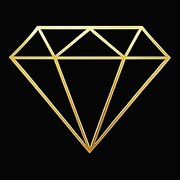
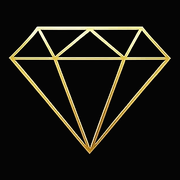
Logo3, mapa Google click-to-load, botões de navegação e afinações
- Logo atualizado (logo3) com fundo transparente + favicons + og-image
- Mapa Google Maps interativo em modo click-to-load (consentimento por
  clique, sem banner de cookies — políticas atualizadas: Google Ireland/
  LLC + DPF, retirada por recarregamento, exemplo de cookie NID)
- Botão de descer no hero + botão fixo 'voltar ao topo'
- Botão 'Pedir orçamento' da navbar leva aos Contactos
- Footer: contactos com ícones, redes sociais sob a descrição encurtada
- 'Higienização de sofás' + slider centrado em mobile; texto Sobre limpo
- Ver mais serviços em mobile; header transparente no topo

Changed region(s): [[0.0278, 0.1389, 0.9444, 0.8611]]

diff --git a/index.html b/index.html
@@ -26,7 +26,7 @@
   <link rel="icon" href="assets/img/favicon-32.png" sizes="32x32" type="image/png">
   <link rel="icon" href="assets/img/icon-192.png" sizes="192x192" type="image/png">
   <link rel="apple-touch-icon" href="assets/img/apple-touch-icon.png">
-  <link rel="stylesheet" href="assets/css/styles.css?v=5">
+  <link rel="stylesheet" href="assets/css/styles.css?v=8">
 
   <script type="application/ld+json">
   {
@@ -64,7 +64,7 @@
   <header class="site-header">
     <div class="container site-header__inner">
       <a class="brand" href="#inicio" aria-label="Gold Cleaning Services — início">
-        <img src="assets/img/logo-full.webp?v=4" alt="Gold Cleaning Services" width="921" height="519">
+        <img src="assets/img/logo-full.webp?v=6" alt="Gold Cleaning Services" width="921" height="522">
       </a>
       <button class="nav-toggle" aria-expanded="false" aria-controls="nav" aria-label="Abrir menu">
         <span class="nav-toggle__bars" aria-hidden="true"></span>
@@ -77,10 +77,7 @@
           <li><a href="#galeria">Galeria</a></li>
           <li><a href="#contactos">Contactos</a></li>
           <li>
-            <a class="btn btn--gold" href="https://wa.me/message/L3VXHYEIM6WUH1" target="_blank" rel="noopener noreferrer">
-              <svg width="18" height="18" viewBox="0 0 24 24" fill="currentColor" aria-hidden="true"><path d="M12 2a10 10 0 0 0-8.6 15.1L2 22l5-1.3A10 10 0 1 0 12 2Zm5.4 14.1c-.2.7-1.3 1.3-1.9 1.4-.5.1-1.1.1-1.8-.1-.4-.1-1-.3-1.7-.6-2.9-1.3-4.8-4.2-5-4.4-.1-.2-1.2-1.6-1.2-3s.7-2.1 1-2.4c.2-.3.5-.3.7-.3h.5c.2 0 .4 0 .6.4.2.5.7 1.8.8 1.9.1.1.1.3 0 .5-.1.2-.1.3-.3.5l-.4.5c-.1.1-.3.3-.1.6.2.3.8 1.3 1.7 2.1 1.2 1.1 2.2 1.4 2.5 1.5.3.1.5.1.7-.1.2-.2.8-.9 1-1.2.2-.3.4-.3.7-.2.3.1 1.8.8 2.1 1 .3.2.5.3.6.4.1.2.1.7-.1 1.5Z"/></svg>
-              Pedir orçamento
-            </a>
+            <a class="btn btn--gold" href="#contactos">Pedir orçamento</a>
           </li>
         </ul>
       </nav>
@@ -104,6 +101,9 @@
           </div>
         </div>
       </div>
+      <a class="hero__scroll" href="#servicos" aria-label="Descer para a secção de serviços">
+        <svg width="22" height="22" viewBox="0 0 24 24" fill="none" stroke="currentColor" stroke-width="2" stroke-linecap="round" stroke-linejoin="round" aria-hidden="true"><path d="m6 9 6 6 6-6"/></svg>
+      </a>
     </section>
 
     <!-- ============ SERVIÇOS ============ -->
@@ -179,7 +179,7 @@
         </div>
         <div class="ba-wrap">
           <div class="ba-block">
-            <h3>Higienização de sofá</h3>
+            <h3>Higienização de sofás</h3>
             <div class="ba-slider">
               <img src="assets/img/sofas-antes.webp" alt="Sofá em tecido claro com manchas e sujidade, antes da higienização" width="900" height="1200" loading="lazy" decoding="async">
               <img class="ba-slider__after" src="assets/img/sofas-depois.webp" alt="O mesmo sofá completamente limpo, depois da higienização profissional" width="900" height="1200" loading="lazy" decoding="async">
@@ -218,7 +218,7 @@
           <p class="kicker">Sobre nós</p>
           <h2 id="sobre-titulo">Limpeza profunda, cuidado delicado</h2>
           <p>A Gold Cleaning Services é uma empresa de Rio Meão, Santa Maria da Feira, especializada em serviços de limpeza profissional para <strong>empresas e particulares</strong>.</p>
-          <p>Investimos em equipamento profissional e inovador — plataformas elevatórias, pértigas de água purificada, máquinas de injeção-extração e lavadoras de alta pressão — para entregar, em cada trabalho, um resultado ao nível do nosso nome.</p>
+          <p>Investimos em equipamento profissional e inovador para entregar, em cada trabalho, um resultado ao nível do nosso nome.</p>
           <ul class="checklist">
             <li>
               <svg width="22" height="22" viewBox="0 0 24 24" fill="none" stroke="currentColor" stroke-width="2" stroke-linecap="round" stroke-linejoin="round" aria-hidden="true"><path d="M20 6 9 17l-5-5"/></svg>
@@ -290,6 +290,10 @@
           <div class="map-card__media">
             <img src="assets/img/mapa-rio-meao.webp" alt="Mapa da zona de Rio Meão com a localização da Gold Cleaning assinalada na Rua Nova" width="1280" height="640" loading="lazy">
             <span class="map-attrib">© <a href="https://www.openstreetmap.org/copyright" target="_blank" rel="noopener noreferrer">OpenStreetMap</a> contributors</span>
+            <div class="map-consent">
+              <button type="button" class="btn btn--gold map-load">Ver mapa interativo</button>
+              <p class="map-consent__note">Ao carregar o mapa aceita os cookies da Google · <a href="cookies.html">saber mais</a></p>
+            </div>
           </div>
           <div class="map-card__bar">
             <address><strong>Rua Nova, 39, Monte Outeiro</strong> · 4520-462 Rio Meão · Santa Maria da Feira</address>
@@ -314,8 +318,8 @@
     <div class="container">
       <div class="site-footer__top">
         <div class="site-footer__brand">
-          <img class="logo-foot" src="assets/img/logo-full.webp?v=4" alt="Gold Cleaning Services" width="921" height="519">
-          <p>Limpeza profunda, cuidado delicado. Serviços de limpeza profissional para empresas e particulares — final de obra, fachadas, telhados, vidros, painéis solares, estofos e muito mais.</p>
+          <img class="logo-foot" src="assets/img/logo-full.webp?v=6" alt="Gold Cleaning Services" width="921" height="522">
+          <p>Limpeza profunda, cuidado delicado. Serviços de limpeza profissional para empresas e particulares.</p>
           <div class="socials">
             <a href="https://www.instagram.com/gold_cleaning.services/" target="_blank" rel="noopener noreferrer" aria-label="Instagram da Gold Cleaning">
               <svg width="22" height="22" viewBox="0 0 24 24" fill="none" stroke="currentColor" stroke-width="1.8" stroke-linecap="round" stroke-linejoin="round" aria-hidden="true"><rect x="2.5" y="2.5" width="19" height="19" rx="5"/><circle cx="12" cy="12" r="4.2"/><circle cx="17.6" cy="6.4" r="1.1" fill="currentColor" stroke="none"/></svg>
@@ -358,6 +362,6 @@
     </div>
   </footer>
 
-  <script src="assets/js/main.js?v=4" defer></script>
+  <script src="assets/js/main.js?v=6" defer></script>
 </body>
 </html>

diff --git a/cookies.html b/cookies.html
@@ -14,7 +14,7 @@
   <link rel="icon" href="assets/img/favicon-32.png" sizes="32x32" type="image/png">
   <link rel="icon" href="assets/img/icon-192.png" sizes="192x192" type="image/png">
   <link rel="apple-touch-icon" href="assets/img/apple-touch-icon.png">
-  <link rel="stylesheet" href="assets/css/styles.css?v=5">
+  <link rel="stylesheet" href="assets/css/styles.css?v=8">
 </head>
 <body>
   <a class="skip-link" href="#conteudo">Saltar para o conteúdo</a>
@@ -22,7 +22,7 @@
   <header class="site-header">
     <div class="container site-header__inner">
       <a class="brand" href="index.html" aria-label="Gold Cleaning Services — início">
-        <img src="assets/img/logo-full.webp?v=4" alt="Gold Cleaning Services" width="921" height="519">
+        <img src="assets/img/logo-full.webp?v=6" alt="Gold Cleaning Services" width="921" height="522">
       </a>
       <button class="nav-toggle" aria-expanded="false" aria-controls="nav" aria-label="Abrir menu">
         <span class="nav-toggle__bars" aria-hidden="true"></span>
@@ -48,8 +48,9 @@
       <p>O website da Gold Cleaning Services <strong>não utiliza cookies nem outras tecnologias de rastreio</strong> — nem próprios, nem de terceiros. Não usamos ferramentas de análise de tráfego (analytics), publicidade ou personalização, e nenhum conteúdo de terceiros (como mapas ou vídeos incorporados) é carregado automaticamente nas nossas páginas.</p>
       <p>Por esse motivo, não lhe é apresentado qualquer pedido de consentimento para cookies, nos termos do artigo 5.º da Lei n.º 41/2004, de 18 de agosto: não há nada para consentir.</p>
 
-      <h2>2. Ligações para serviços externos</h2>
-      <p>O website contém ligações para serviços de terceiros — por exemplo, Google Maps (para ver a nossa localização), WhatsApp, Instagram e Facebook. Estes serviços só são abertos se clicar nas respetivas ligações e, a partir desse momento, podem utilizar cookies de acordo com as suas próprias políticas, que lhe recomendamos que consulte:</p>
+      <h2>2. Ligações e conteúdos de serviços externos</h2>
+      <p>O website contém ligações para serviços de terceiros — WhatsApp, Instagram, Facebook e Google Maps. Estes serviços só são abertos se clicar nas respetivas ligações e, a partir desse momento, podem utilizar cookies de acordo com as suas próprias políticas.</p>
+      <p>Na secção de contactos existe um <strong>mapa interativo do Google Maps</strong>. Este mapa <strong>não é carregado automaticamente</strong>: até clicar no botão «Ver mapa interativo», é apresentada apenas uma imagem estática alojada neste website (sem qualquer pedido a terceiros). Se clicar nesse botão, o mapa da Google é carregado e a Google pode instalar cookies (por exemplo, o cookie «NID») e tratar dados (como o seu endereço IP) de acordo com as suas políticas. O clique vale como consentimento para esse carregamento. A escolha não fica guardada: para retirar o consentimento basta recarregar ou sair da página. Políticas relevantes:</p>
       <ul>
         <li><a href="https://policies.google.com/technologies/cookies" target="_blank" rel="noopener noreferrer">Política de cookies da Google</a></li>
         <li><a href="https://www.whatsapp.com/legal/cookies" target="_blank" rel="noopener noreferrer">Política de cookies do WhatsApp</a></li>
@@ -57,7 +58,7 @@
       </ul>
 
       <h2>3. Se esta política mudar</h2>
-      <p>Se algum dia este website passar a utilizar cookies (por exemplo, ao incorporar um mapa interativo ou ferramentas de estatísticas), esta política será atualizada e ser-lhe-á pedido consentimento prévio, livre e informado, nos termos da lei, antes de qualquer cookie não estritamente necessário ser instalado.</p>
+      <p>Se algum dia este website passar a utilizar cookies próprios ou a carregar automaticamente conteúdos de terceiros (por exemplo, ferramentas de estatísticas), esta política será atualizada e ser-lhe-á pedido consentimento prévio, livre e informado, nos termos da lei, antes de qualquer cookie não estritamente necessário ser instalado.</p>
 
       <h2>4. Contacto</h2>
       <p>Para qualquer questão sobre esta política: <a href="mailto:rdgoldcleaning@gmail.com">rdgoldcleaning@gmail.com</a>. Consulte também a nossa <a href="privacidade.html">Política de Privacidade</a>.</p>
@@ -68,8 +69,8 @@
     <div class="container">
       <div class="site-footer__top">
         <div class="site-footer__brand">
-          <img class="logo-foot" src="assets/img/logo-full.webp?v=4" alt="Gold Cleaning Services" width="921" height="519">
-          <p>Limpeza profunda, cuidado delicado. Serviços de limpeza profissional para empresas e particulares — final de obra, fachadas, telhados, vidros, painéis solares, estofos e muito mais.</p>
+          <img class="logo-foot" src="assets/img/logo-full.webp?v=6" alt="Gold Cleaning Services" width="921" height="522">
+          <p>Limpeza profunda, cuidado delicado. Serviços de limpeza profissional para empresas e particulares.</p>
           <div class="socials">
             <a href="https://www.instagram.com/gold_cleaning.services/" target="_blank" rel="noopener noreferrer" aria-label="Instagram da Gold Cleaning">
               <svg width="22" height="22" viewBox="0 0 24 24" fill="none" stroke="currentColor" stroke-width="1.8" stroke-linecap="round" stroke-linejoin="round" aria-hidden="true"><rect x="2.5" y="2.5" width="19" height="19" rx="5"/><circle cx="12" cy="12" r="4.2"/><circle cx="17.6" cy="6.4" r="1.1" fill="currentColor" stroke="none"/></svg>
@@ -112,6 +113,6 @@
     </div>
   </footer>
 
-  <script src="assets/js/main.js?v=4" defer></script>
+  <script src="assets/js/main.js?v=6" defer></script>
 </body>
 </html>

diff --git a/privacidade.html b/privacidade.html
@@ -14,7 +14,7 @@
   <link rel="icon" href="assets/img/favicon-32.png" sizes="32x32" type="image/png">
   <link rel="icon" href="assets/img/icon-192.png" sizes="192x192" type="image/png">
   <link rel="apple-touch-icon" href="assets/img/apple-touch-icon.png">
-  <link rel="stylesheet" href="assets/css/styles.css?v=5">
+  <link rel="stylesheet" href="assets/css/styles.css?v=8">
 </head>
 <body>
   <a class="skip-link" href="#conteudo">Saltar para o conteúdo</a>
@@ -22,7 +22,7 @@
   <header class="site-header">
     <div class="container site-header__inner">
       <a class="brand" href="index.html" aria-label="Gold Cleaning Services — início">
-        <img src="assets/img/logo-full.webp?v=4" alt="Gold Cleaning Services" width="921" height="519">
+        <img src="assets/img/logo-full.webp?v=6" alt="Gold Cleaning Services" width="921" height="522">
       </a>
       <button class="nav-toggle" aria-expanded="false" aria-controls="nav" aria-label="Abrir menu">
         <span class="nav-toggle__bars" aria-hidden="true"></span>
@@ -56,8 +56,9 @@
       <h3>2.2. Contactos que nos dirija</h3>
       <p>Se nos contactar por telefone, email ou WhatsApp, trataremos os dados que nos fornecer (nome, contacto e conteúdo da mensagem) exclusivamente para responder ao seu pedido e preparar o orçamento solicitado — fundamento: diligências pré-contratuais e execução de contrato (artigo 6.º, n.º 1, alínea b) do RGPD) ou consentimento (alínea a)). Conservamos estes dados apenas pelo tempo necessário à resposta e, existindo relação contratual, pelos prazos legais aplicáveis (nomeadamente fiscais).</p>
 
-      <h2>3. Ligações para serviços de terceiros</h2>
+      <h2>3. Ligações e conteúdos de serviços de terceiros</h2>
       <p>Este website contém ligações para serviços externos — Google Maps, WhatsApp, Instagram e Facebook. Estas ligações abrem os respetivos serviços apenas quando clica nelas; a partir desse momento, aplicam-se as políticas de privacidade desses serviços. Nenhum conteúdo de terceiros é carregado automaticamente neste website.</p>
+      <p>O mapa interativo do Google Maps na secção de contactos só é carregado depois de clicar em «Ver mapa interativo» (até lá é mostrada uma imagem estática alojada neste website). Ao carregá-lo, a Google Ireland Ltd. — com eventual subtratamento pela Google LLC (EUA), ao abrigo do EU-U.S. Data Privacy Framework (decisão de adequação, artigo 45.º do RGPD) — passa a tratar dados da sua visita, incluindo o endereço IP e cookies (por exemplo, o cookie «NID»), nos termos da <a href="https://policies.google.com/privacy" target="_blank" rel="noopener noreferrer">política de privacidade da Google</a>. O clique vale como consentimento (artigo 6.º, n.º 1, alínea a) do RGPD). A sua escolha não fica guardada: para retirar o consentimento basta recarregar ou sair da página — o mapa volta ao estado estático e nada mais é comunicado à Google.</p>
 
       <h2>4. Os seus direitos</h2>
       <p>Nos termos dos artigos 15.º a 22.º do RGPD, tem o direito de aceder aos seus dados pessoais, de os retificar ou apagar, de limitar o tratamento ou de se opor a ele, bem como o direito à portabilidade dos dados. Quando o tratamento se baseie no consentimento, pode retirá-lo a qualquer momento (artigo 7.º, n.º 3), sem comprometer a licitude do tratamento anterior. Para exercer os seus direitos, contacte-nos: <a href="mailto:rdgoldcleaning@gmail.com">rdgoldcleaning@gmail.com</a>.</p>
@@ -75,8 +76,8 @@
     <div class="container">
       <div class="site-footer__top">
         <div class="site-footer__brand">
-          <img class="logo-foot" src="assets/img/logo-full.webp?v=4" alt="Gold Cleaning Services" width="921" height="519">
-          <p>Limpeza profunda, cuidado delicado. Serviços de limpeza profissional para empresas e particulares — final de obra, fachadas, telhados, vidros, painéis solares, estofos e muito mais.</p>
+          <img class="logo-foot" src="assets/img/logo-full.webp?v=6" alt="Gold Cleaning Services" width="921" height="522">
+          <p>Limpeza profunda, cuidado delicado. Serviços de limpeza profissional para empresas e particulares.</p>
           <div class="socials">
             <a href="https://www.instagram.com/gold_cleaning.services/" target="_blank" rel="noopener noreferrer" aria-label="Instagram da Gold Cleaning">
               <svg width="22" height="22" viewBox="0 0 24 24" fill="none" stroke="currentColor" stroke-width="1.8" stroke-linecap="round" stroke-linejoin="round" aria-hidden="true"><rect x="2.5" y="2.5" width="19" height="19" rx="5"/><circle cx="12" cy="12" r="4.2"/><circle cx="17.6" cy="6.4" r="1.1" fill="currentColor" stroke="none"/></svg>
@@ -119,6 +120,6 @@
     </div>
   </footer>
 
-  <script src="assets/js/main.js?v=4" defer></script>
+  <script src="assets/js/main.js?v=6" defer></script>
 </body>
 </html>

diff --git a/assets/css/styles.css b/assets/css/styles.css
@@ -184,6 +184,35 @@ a:hover { color: var(--gold-bright); }
 }
 .hero p { color: var(--text); font-size: 1.13rem; max-width: 54ch; margin: 0 0 32px; }
 .hero__actions { display: flex; flex-wrap: wrap; gap: 14px; }
+.hero__scroll {
+  position: absolute; left: 50%; bottom: 26px; z-index: 2;
+  width: 48px; height: 48px; border-radius: 50%;
+  display: grid; place-items: center;
+  border: 1px solid var(--hairline); color: var(--gold-light);
+  background: rgba(5, 5, 5, .45);
+  animation: hero-bounce 2.4s ease-in-out infinite;
+}
+.hero__scroll:hover { border-color: var(--gold); color: var(--gold-bright); }
+@keyframes hero-bounce {
+  0%, 100% { transform: translate(-50%, 0); }
+  50% { transform: translate(-50%, 9px); }
+}
+
+/* ---------- Voltar ao topo ---------- */
+.to-top {
+  position: fixed; right: 22px; bottom: 22px; z-index: 90;
+  width: 50px; height: 50px; border-radius: 50%;
+  display: grid; place-items: center;
+  background: var(--grad-gold); color: #131006;
+  border: none; cursor: pointer;
+  box-shadow: 0 8px 26px rgba(212, 175, 55, .3);
+  opacity: 0; visibility: hidden; transform: translateY(14px);
+  transition: opacity .25s ease, transform .25s ease, visibility 0s .25s;
+}
+.to-top.is-visible {
+  opacity: 1; visibility: visible; transform: none;
+  transition: opacity .25s ease, transform .25s ease, visibility 0s;
+}
 
 /* ---------- Secções ---------- */
 .section { padding: 72px 0; scroll-margin-top: 66px; }
@@ -367,6 +396,23 @@ a:hover { color: var(--gold-bright); }
   background: rgba(255, 255, 255, .82); color: #333;
 }
 .map-attrib a { color: #333; }
+/* Google Maps click-to-load: o iframe só carrega após consentimento por clique */
+.map-consent {
+  position: absolute; inset: 0;
+  display: grid; place-content: center; gap: 12px;
+  background: rgba(5, 5, 5, .42); text-align: center; padding: 20px;
+}
+.map-consent__note {
+  margin: 0; font-size: .82rem; color: var(--text);
+  background: rgba(5, 5, 5, .82); padding: 6px 14px; border-radius: 999px;
+  justify-self: center;
+}
+.map-consent__note a { color: var(--gold-light); }
+html:not(.js) .map-consent { display: none; }
+.map-card__iframe {
+  width: 100%; height: clamp(240px, 30vw, 340px);
+  border: 0; display: block;
+}
 
 /* ---------- Footer (minimal) ---------- */
 .site-footer {
@@ -445,6 +491,7 @@ a:hover { color: var(--gold-bright); }
   .contact-grid { grid-template-columns: 1fr; }
   .about-grid { grid-template-columns: 1fr; gap: 36px; }
   .ba-wrap { grid-template-columns: 1fr; gap: 48px; }
+  .ba-slider { margin-inline: auto; }
   .site-footer__top { grid-template-columns: 1fr 1fr; }
 
   html.js .nav-toggle { display: inline-flex; }

diff --git a/assets/js/main.js b/assets/js/main.js
@@ -2,15 +2,25 @@
 (function () {
   'use strict';
 
+  /* ---------- Botão "voltar ao topo" ---------- */
+  var toTop = document.createElement('button');
+  toTop.type = 'button';
+  toTop.className = 'to-top';
+  toTop.setAttribute('aria-label', 'Voltar ao topo da página');
+  toTop.innerHTML = '<svg width="22" height="22" viewBox="0 0 24 24" fill="none" stroke="currentColor" stroke-width="2.2" stroke-linecap="round" stroke-linejoin="round" aria-hidden="true"><path d="m18 15-6-6-6 6"/></svg>';
+  document.body.appendChild(toTop);
+  toTop.addEventListener('click', function () {
+    window.scrollTo({ top: 0, behavior: 'smooth' });
+  });
+
   /* ---------- Header: logo grande no topo, encolhe ao rolar ---------- */
   var header = document.querySelector('.site-header');
-  if (header) {
-    var onScroll = function () {
-      header.classList.toggle('is-scrolled', window.scrollY > 24);
-    };
-    window.addEventListener('scroll', onScroll, { passive: true });
-    onScroll();
-  }
+  var onScroll = function () {
+    if (header) header.classList.toggle('is-scrolled', window.scrollY > 24);
+    toTop.classList.toggle('is-visible', window.scrollY > 600);
+  };
+  window.addEventListener('scroll', onScroll, { passive: true });
+  onScroll();
 
   /* ---------- Navegação móvel ---------- */
   var toggle = document.querySelector('.nav-toggle');
@@ -109,6 +119,24 @@
   }
   /* Sem showModal (browsers antigos), os links da galeria navegam
      diretamente para a imagem — fallback nativo, sem JS adicional. */
+
+  /* ---------- Mapa Google (click-to-load, sem cookies até ao clique) ---------- */
+  var mapBtn = document.querySelector('.map-load');
+  if (mapBtn) {
+    mapBtn.addEventListener('click', function () {
+      var media = document.querySelector('.map-card__media');
+      if (!media) return;
+      var iframe = document.createElement('iframe');
+      iframe.src = 'https://maps.google.com/maps?q=40.958470,-8.596591&z=16&hl=pt&output=embed';
+      iframe.title = 'Mapa interativo do Google Maps com a localização da Gold Cleaning na Rua Nova, Rio Meão';
+      iframe.className = 'map-card__iframe';
+      iframe.setAttribute('allowfullscreen', '');
+      iframe.setAttribute('referrerpolicy', 'no-referrer-when-downgrade');
+      media.innerHTML = '';
+      media.appendChild(iframe);
+      iframe.focus();
+    });
+  }
 
   /* ---------- Ano no rodapé ---------- */
   var yearEl = document.getElementById('year');

diff --git a/404.html b/404.html
@@ -12,7 +12,7 @@
   <link rel="icon" href="/GoldCleaning/assets/img/favicon-32.png" sizes="32x32" type="image/png">
   <link rel="icon" href="/GoldCleaning/assets/img/icon-192.png" sizes="192x192" type="image/png">
   <link rel="apple-touch-icon" href="/GoldCleaning/assets/img/apple-touch-icon.png">
-  <link rel="stylesheet" href="/GoldCleaning/assets/css/styles.css?v=5">
+  <link rel="stylesheet" href="/GoldCleaning/assets/css/styles.css?v=8">
 </head>
 <body>
   <a class="skip-link" href="#conteudo">Saltar para o conteúdo</a>
@@ -20,7 +20,7 @@
   <header class="site-header">
     <div class="container site-header__inner">
       <a class="brand" href="/GoldCleaning/" aria-label="Gold Cleaning Services — início">
-        <img src="/GoldCleaning/assets/img/logo-full.webp?v=4" alt="Gold Cleaning Services" width="921" height="519">
+        <img src="/GoldCleaning/assets/img/logo-full.webp?v=6" alt="Gold Cleaning Services" width="921" height="522">
       </a>
     </div>
   </header>
@@ -40,8 +40,8 @@
     <div class="container">
       <div class="site-footer__top">
         <div class="site-footer__brand">
-          <img class="logo-foot" src="/GoldCleaning/assets/img/logo-full.webp?v=4" alt="Gold Cleaning Services" width="921" height="519">
-          <p>Limpeza profunda, cuidado delicado. Serviços de limpeza profissional para empresas e particulares — final de obra, fachadas, telhados, vidros, painéis solares, estofos e muito mais.</p>
+          <img class="logo-foot" src="/GoldCleaning/assets/img/logo-full.webp?v=6" alt="Gold Cleaning Services" width="921" height="522">
+          <p>Limpeza profunda, cuidado delicado. Serviços de limpeza profissional para empresas e particulares.</p>
           <div class="socials">
             <a href="https://www.instagram.com/gold_cleaning.services/" target="_blank" rel="noopener noreferrer" aria-label="Instagram da Gold Cleaning">
               <svg width="22" height="22" viewBox="0 0 24 24" fill="none" stroke="currentColor" stroke-width="1.8" stroke-linecap="round" stroke-linejoin="round" aria-hidden="true"><rect x="2.5" y="2.5" width="19" height="19" rx="5"/><circle cx="12" cy="12" r="4.2"/><circle cx="17.6" cy="6.4" r="1.1" fill="currentColor" stroke="none"/></svg>
@@ -84,6 +84,6 @@
     </div>
   </footer>
 
-  <script src="/GoldCleaning/assets/js/main.js?v=4" defer></script>
+  <script src="/GoldCleaning/assets/js/main.js?v=6" defer></script>
 </body>
 </html>

diff --git a/termos.html b/termos.html
@@ -14,7 +14,7 @@
   <link rel="icon" href="assets/img/favicon-32.png" sizes="32x32" type="image/png">
   <link rel="icon" href="assets/img/icon-192.png" sizes="192x192" type="image/png">
   <link rel="apple-touch-icon" href="assets/img/apple-touch-icon.png">
-  <link rel="stylesheet" href="assets/css/styles.css?v=5">
+  <link rel="stylesheet" href="assets/css/styles.css?v=8">
 </head>
 <body>
   <a class="skip-link" href="#conteudo">Saltar para o conteúdo</a>
@@ -22,7 +22,7 @@
   <header class="site-header">
     <div class="container site-header__inner">
       <a class="brand" href="index.html" aria-label="Gold Cleaning Services — início">
-        <img src="assets/img/logo-full.webp?v=4" alt="Gold Cleaning Services" width="921" height="519">
+        <img src="assets/img/logo-full.webp?v=6" alt="Gold Cleaning Services" width="921" height="522">
       </a>
       <button class="nav-toggle" aria-expanded="false" aria-controls="nav" aria-label="Abrir menu">
         <span class="nav-toggle__bars" aria-hidden="true"></span>
@@ -87,8 +87,8 @@
     <div class="container">
       <div class="site-footer__top">
         <div class="site-footer__brand">
-          <img class="logo-foot" src="assets/img/logo-full.webp?v=4" alt="Gold Cleaning Services" width="921" height="519">
-          <p>Limpeza profunda, cuidado delicado. Serviços de limpeza profissional para empresas e particulares — final de obra, fachadas, telhados, vidros, painéis solares, estofos e muito mais.</p>
+          <img class="logo-foot" src="assets/img/logo-full.webp?v=6" alt="Gold Cleaning Services" width="921" height="522">
+          <p>Limpeza profunda, cuidado delicado. Serviços de limpeza profissional para empresas e particulares.</p>
           <div class="socials">
             <a href="https://www.instagram.com/gold_cleaning.services/" target="_blank" rel="noopener noreferrer" aria-label="Instagram da Gold Cleaning">
               <svg width="22" height="22" viewBox="0 0 24 24" fill="none" stroke="currentColor" stroke-width="1.8" stroke-linecap="round" stroke-linejoin="round" aria-hidden="true"><rect x="2.5" y="2.5" width="19" height="19" rx="5"/><circle cx="12" cy="12" r="4.2"/><circle cx="17.6" cy="6.4" r="1.1" fill="currentColor" stroke="none"/></svg>
@@ -131,6 +131,6 @@
     </div>
   </footer>
 
-  <script src="assets/js/main.js?v=4" defer></script>
+  <script src="assets/js/main.js?v=6" defer></script>
 </body>
 </html>
